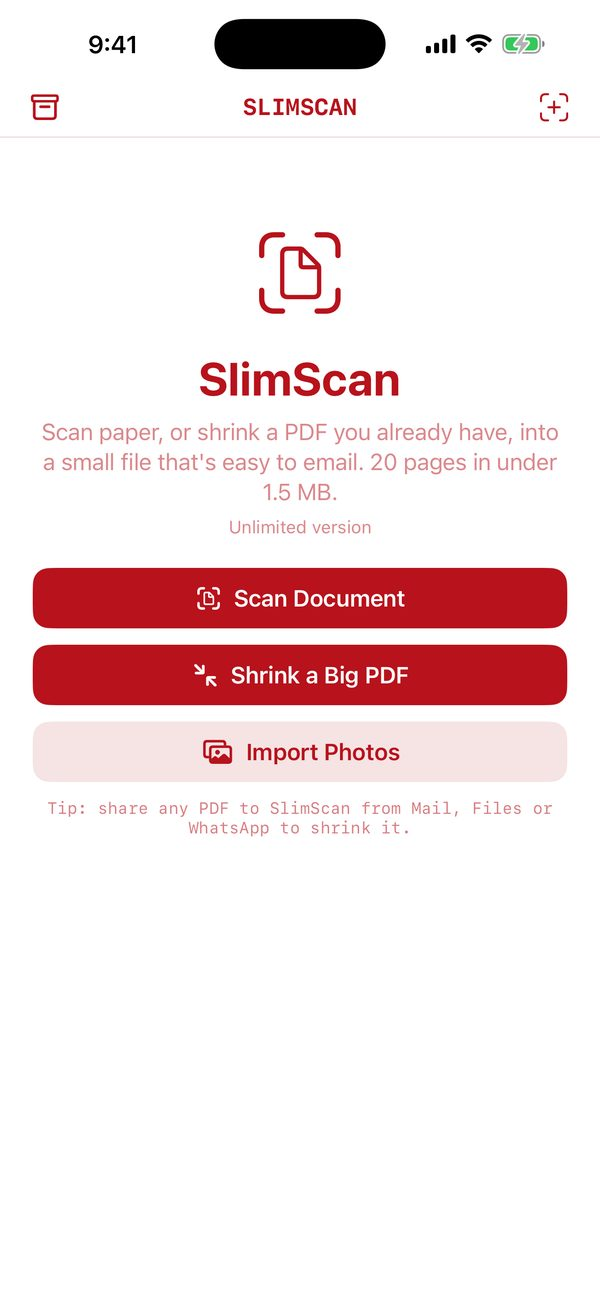
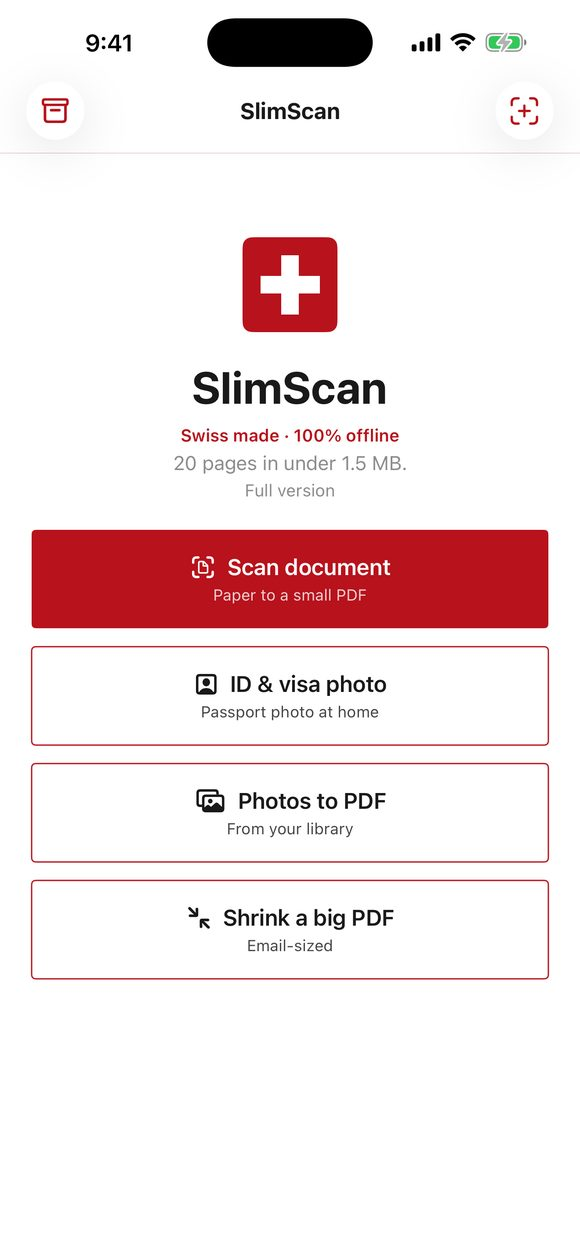
Website v2: new Swiss screenshot set, Play privacy wording, decimal comma
- Screenshots from the 12 Oct iPhone capture: 01 start (hero), 04 export, 09 ID photo chooser,
  02 pages; 580 px WebP + JPEG fallback, all enabled, alt text per language
- Android privacy text matches the Play listing word for word (incl. random install ID), on the
  4 home pages and privacy.html; offline FAQ notes Android's first scan sets up the scanner
- de/fr/it use 1,5 / 1,3 like the store listings

Claude-Session: https://claude.ai/code/session_01Nr3QbWd2Dngeoomh4BPrDx

diff --git a/fr/index.html b/fr/index.html
@@ -4,7 +4,7 @@
 <meta charset="utf-8">
 <meta name="viewport" content="width=device-width, initial-scale=1">
 <title>SlimScan : numériser et réduire vos PDF · Swiss made</title>
-<meta name="description" content="Numérisez du papier ou réduisez un PDF pour l&#x27;e-mail : 20 pages en moins de 1.5 Mo. Photos d&#x27;identité sur iPhone. Swiss made. Sans compte, sans abonnement.">
+<meta name="description" content="Numérisez du papier ou réduisez un PDF pour l&#x27;e-mail : 20 pages en moins de 1,5 Mo. Photos d&#x27;identité sur iPhone. Swiss made. Sans compte, sans abonnement.">
 <meta name="color-scheme" content="light dark">
 <link rel="canonical" href="https://chager5000.github.io/SlimScan-support/fr/">
 <link rel="alternate" hreflang="en" href="https://chager5000.github.io/SlimScan-support/">
@@ -17,7 +17,7 @@
 <meta property="og:type" content="website">
 <meta property="og:site_name" content="SlimScan">
 <meta property="og:title" content="SlimScan : numériser et réduire vos PDF · Swiss made">
-<meta property="og:description" content="Des PDF légers, prêts pour l&#x27;e-mail. 20 pages en moins de 1.5 Mo. Sans compte, sans cloud, sans abonnement.">
+<meta property="og:description" content="Des PDF légers, prêts pour l&#x27;e-mail. 20 pages en moins de 1,5 Mo. Sans compte, sans cloud, sans abonnement.">
 <meta property="og:url" content="https://chager5000.github.io/SlimScan-support/fr/">
 <meta property="og:image" content="https://chager5000.github.io/SlimScan-support/assets/og.png">
 <meta property="og:image:width" content="1200">
@@ -51,7 +51,7 @@
     <div>
       <p class="eyebrow">Swiss made · Sans compte · Sans cloud</p>
       <h1>Des PDF légers, prêts pour l'e-mail.</h1>
-      <p class="lead">Numérisez du papier ou réduisez un PDF existant&nbsp;: <strong>20 pages en moins de 1.5 Mo.</strong> Photos d'identité et de visa sur iPhone.</p>
+      <p class="lead">Numérisez du papier ou réduisez un PDF existant&nbsp;: <strong>20 pages en moins de 1,5 Mo.</strong> Photos d'identité et de visa sur iPhone.</p>
       <div class="cta">
         <!-- TODO(owner): replace idXXXXXXXXXX with SlimScan's App Store id; for App Store Connect campaign stats also add &pt=PROVIDER_TOKEN -->
         <a class="btn btn-primary" href="https://apps.apple.com/app/idXXXXXXXXXX?ct=website">Télécharger dans l'App Store</a>
@@ -61,8 +61,9 @@
     </div>
     <figure class="hero-shot">
       <picture>
-        <!-- dark version later: <source srcset="../assets/01-swiss-start-dark.jpg" media="(prefers-color-scheme: dark)"> -->
-        <img class="shot" src="../assets/01-swiss-start.jpg" width="600" height="1304" fetchpriority="high" decoding="async" alt="Écran d&#x27;accueil de SlimScan dans le style suisse rouge et blanc">
+        <!-- dark version later: <source srcset="../assets/01-swiss-start-dark.webp" type="image/webp" media="(prefers-color-scheme: dark)"> -->
+        <source srcset="../assets/01-swiss-start.webp" type="image/webp">
+        <img class="shot" src="../assets/01-swiss-start.jpg" width="580" height="1260" fetchpriority="high" decoding="async" alt="Écran d&#x27;accueil de SlimScan dans le style suisse, avec les boutons Scan document, ID &amp; visa photo, Photos to PDF et Shrink a big PDF">
       </picture>
     </figure>
   </div>
@@ -77,7 +78,7 @@
       </li>
       <li>
         <h3>Réduire un gros PDF</h3>
-        <p>Partagez un PDF avec SlimScan&nbsp;: 14 Mo avant, 1.3 Mo après.</p>
+        <p>Partagez un PDF avec SlimScan&nbsp;: 14 Mo avant, 1,3 Mo après.</p>
       </li>
       <li>
         <h3>Photos en PDF</h3>
@@ -101,13 +102,9 @@
       </li>
     </ul>
     <ul class="screens">
-      <!-- ENABLE when assets/04-swiss-export.jpg exists (remove this comment wrapper):
-      <li><figure><picture><img class="shot" src="../assets/04-swiss-export.jpg" width="600" height="1304" loading="lazy" decoding="async" alt="Écran d&#x27;export avec la taille du PDF avant l&#x27;envoi"></picture><figcaption>La taille avant l'envoi</figcaption></figure></li>
-      -->
-      <!-- ENABLE when assets/08-swiss-idphoto.jpg exists (remove this comment wrapper):
-      <li><figure><picture><img class="shot" src="../assets/08-swiss-idphoto.jpg" width="600" height="1304" loading="lazy" decoding="async" alt="Photo d&#x27;identité sur fond uni, tous les contrôles réussis"></picture><figcaption>Photos d'identité vérifiées (iPhone)</figcaption></figure></li>
-      -->
-      <li><figure><picture><!-- dark version later: <source srcset="../assets/02-swiss-pages-dark.jpg" media="(prefers-color-scheme: dark)"> --><img class="shot" src="../assets/02-swiss-pages.jpg" width="600" height="1304" loading="lazy" decoding="async" alt="Vue des pages numérisées ; une page est exclue"></picture><figcaption>Touchez une page pour l'exclure</figcaption></figure></li>
+      <li><figure><picture><!-- dark version later: <source srcset="../assets/04-swiss-export-dark.webp" type="image/webp" media="(prefers-color-scheme: dark)"> --><source srcset="../assets/04-swiss-export.webp" type="image/webp"><img class="shot" src="../assets/04-swiss-export.jpg" width="580" height="1260" loading="lazy" decoding="async" alt="Écran d&#x27;export : le PDF fait 336 Ko, sous la limite e-mail de 375 Ko et 74 % plus léger qu&#x27;un scan normal, avec les boutons Email, Share, Print et Save"></picture><figcaption>La taille avant l'envoi</figcaption></figure></li>
+      <li><figure><picture><!-- dark version later: <source srcset="../assets/09-swiss-idphoto-chooser-dark.webp" type="image/webp" media="(prefers-color-scheme: dark)"> --><source srcset="../assets/09-swiss-idphoto-chooser.webp" type="image/webp"><img class="shot" src="../assets/09-swiss-idphoto-chooser.jpg" width="580" height="1260" loading="lazy" decoding="async" alt="Choix du document pour les photos d&#x27;identité : d&#x27;abord le permis de conduire suisse, le SwissPass et le permis de séjour, puis les pays de A à Z"></picture><figcaption>Photos d'identité pour formulaires en ligne (iPhone)</figcaption></figure></li>
+      <li><figure><picture><!-- dark version later: <source srcset="../assets/02-swiss-pages-dark.webp" type="image/webp" media="(prefers-color-scheme: dark)"> --><source srcset="../assets/02-swiss-pages.webp" type="image/webp"><img class="shot" src="../assets/02-swiss-pages.jpg" width="580" height="1260" loading="lazy" decoding="async" alt="Vue de six pages numérisées ; la page 5 est exclue, 5 sur 6 sélectionnées"></picture><figcaption>Touchez une page pour l'exclure</figcaption></figure></li>
     </ul>
   </section>
 
@@ -120,7 +117,7 @@
       </div>
       <div class="box">
         <h3>Android</h3>
-        <p>Vos documents ne quittent jamais votre téléphone, sauf si vous les envoyez. Comme sur tout téléphone Android, les services Google Play envoient à Google des données techniques de diagnostic (modèle, version de l'app, performances), jamais vos documents.</p>
+        <p>Vos documents ne quittent votre téléphone que si vous les envoyez. SlimScan utilise le scanner de documents de Google, qui fait partie des services Google Play. Comme sur tout téléphone Android, les services Google Play envoient à Google des données techniques de diagnostic (modèle de l'appareil, version de l'app, performances, un identifiant d'installation aléatoire) – jamais vos documents, images ou textes.</p>
       </div>
     </div>
     <p class="after">Développé en Suisse. SlimScan n'a pas de serveur&nbsp;: vos documents ne nous parviennent jamais. Il n'y a rien que nous puissions stocker, perdre ou remettre. <a href="../privacy.html" hreflang="en">Politique de confidentialité (en anglais)</a></p>

diff --git a/it/index.html b/it/index.html
@@ -4,7 +4,7 @@
 <meta charset="utf-8">
 <meta name="viewport" content="width=device-width, initial-scale=1">
 <title>SlimScan: scansiona e riduci PDF · Swiss made</title>
-<meta name="description" content="Scansiona la carta o riduci un PDF per l&#x27;e-mail: 20 pagine in meno di 1.5 MB. Foto tessera su iPhone. Swiss made. Nessun account, nessun abbonamento.">
+<meta name="description" content="Scansiona la carta o riduci un PDF per l&#x27;e-mail: 20 pagine in meno di 1,5 MB. Foto tessera su iPhone. Swiss made. Nessun account, nessun abbonamento.">
 <meta name="color-scheme" content="light dark">
 <link rel="canonical" href="https://chager5000.github.io/SlimScan-support/it/">
 <link rel="alternate" hreflang="en" href="https://chager5000.github.io/SlimScan-support/">
@@ -17,7 +17,7 @@
 <meta property="og:type" content="website">
 <meta property="og:site_name" content="SlimScan">
 <meta property="og:title" content="SlimScan: scansiona e riduci PDF · Swiss made">
-<meta property="og:description" content="PDF leggeri, pronti per l&#x27;e-mail. 20 pagine in meno di 1.5 MB. Nessun account, nessun cloud, nessun abbonamento.">
+<meta property="og:description" content="PDF leggeri, pronti per l&#x27;e-mail. 20 pagine in meno di 1,5 MB. Nessun account, nessun cloud, nessun abbonamento.">
 <meta property="og:url" content="https://chager5000.github.io/SlimScan-support/it/">
 <meta property="og:image" content="https://chager5000.github.io/SlimScan-support/assets/og.png">
 <meta property="og:image:width" content="1200">
@@ -51,7 +51,7 @@
     <div>
       <p class="eyebrow">Swiss made · Nessun account · Nessun cloud</p>
       <h1>PDF leggeri, pronti per l'e-mail.</h1>
-      <p class="lead">Scansiona la carta o riduci un PDF che hai già: <strong>20 pagine in meno di 1.5 MB.</strong> Foto tessera e per visti su iPhone.</p>
+      <p class="lead">Scansiona la carta o riduci un PDF che hai già: <strong>20 pagine in meno di 1,5 MB.</strong> Foto tessera e per visti su iPhone.</p>
       <div class="cta">
         <!-- TODO(owner): replace idXXXXXXXXXX with SlimScan's App Store id; for App Store Connect campaign stats also add &pt=PROVIDER_TOKEN -->
         <a class="btn btn-primary" href="https://apps.apple.com/app/idXXXXXXXXXX?ct=website">Scarica su App Store</a>
@@ -61,8 +61,9 @@
     </div>
     <figure class="hero-shot">
       <picture>
-        <!-- dark version later: <source srcset="../assets/01-swiss-start-dark.jpg" media="(prefers-color-scheme: dark)"> -->
-        <img class="shot" src="../assets/01-swiss-start.jpg" width="600" height="1304" fetchpriority="high" decoding="async" alt="Schermata iniziale di SlimScan nello stile svizzero rosso e bianco">
+        <!-- dark version later: <source srcset="../assets/01-swiss-start-dark.webp" type="image/webp" media="(prefers-color-scheme: dark)"> -->
+        <source srcset="../assets/01-swiss-start.webp" type="image/webp">
+        <img class="shot" src="../assets/01-swiss-start.jpg" width="580" height="1260" fetchpriority="high" decoding="async" alt="Schermata iniziale di SlimScan nello stile svizzero, con i pulsanti Scan document, ID &amp; visa photo, Photos to PDF e Shrink a big PDF">
       </picture>
     </figure>
   </div>
@@ -77,7 +78,7 @@
       </li>
       <li>
         <h3>Riduci un PDF grande</h3>
-        <p>Condividi un PDF con SlimScan: prima 14 MB, ora 1.3 MB.</p>
+        <p>Condividi un PDF con SlimScan: prima 14 MB, ora 1,3 MB.</p>
       </li>
       <li>
         <h3>Foto in PDF</h3>
@@ -101,13 +102,9 @@
       </li>
     </ul>
     <ul class="screens">
-      <!-- ENABLE when assets/04-swiss-export.jpg exists (remove this comment wrapper):
-      <li><figure><picture><img class="shot" src="../assets/04-swiss-export.jpg" width="600" height="1304" loading="lazy" decoding="async" alt="Schermata di esportazione con la dimensione del PDF prima dell&#x27;invio"></picture><figcaption>La dimensione prima dell'invio</figcaption></figure></li>
-      -->
-      <!-- ENABLE when assets/08-swiss-idphoto.jpg exists (remove this comment wrapper):
-      <li><figure><picture><img class="shot" src="../assets/08-swiss-idphoto.jpg" width="600" height="1304" loading="lazy" decoding="async" alt="Fototessera con sfondo uniforme, tutti i controlli superati"></picture><figcaption>Foto tessera verificate (iPhone)</figcaption></figure></li>
-      -->
-      <li><figure><picture><!-- dark version later: <source srcset="../assets/02-swiss-pages-dark.jpg" media="(prefers-color-scheme: dark)"> --><img class="shot" src="../assets/02-swiss-pages.jpg" width="600" height="1304" loading="lazy" decoding="async" alt="Griglia delle pagine scansionate; una pagina è esclusa"></picture><figcaption>Tocca una pagina per escluderla</figcaption></figure></li>
+      <li><figure><picture><!-- dark version later: <source srcset="../assets/04-swiss-export-dark.webp" type="image/webp" media="(prefers-color-scheme: dark)"> --><source srcset="../assets/04-swiss-export.webp" type="image/webp"><img class="shot" src="../assets/04-swiss-export.jpg" width="580" height="1260" loading="lazy" decoding="async" alt="Schermata di esportazione: il PDF pesa 336 KB, sotto il limite e-mail di 375 KB e il 74% più piccolo di una scansione normale, con i pulsanti Email, Share, Print e Save"></picture><figcaption>La dimensione prima dell'invio</figcaption></figure></li>
+      <li><figure><picture><!-- dark version later: <source srcset="../assets/09-swiss-idphoto-chooser-dark.webp" type="image/webp" media="(prefers-color-scheme: dark)"> --><source srcset="../assets/09-swiss-idphoto-chooser.webp" type="image/webp"><img class="shot" src="../assets/09-swiss-idphoto-chooser.jpg" width="580" height="1260" loading="lazy" decoding="async" alt="Scelta del documento per le foto tessera: prima licenza di condurre svizzera, SwissPass e permesso di dimora, poi i paesi dalla A alla Z"></picture><figcaption>Foto tessera per moduli online (iPhone)</figcaption></figure></li>
+      <li><figure><picture><!-- dark version later: <source srcset="../assets/02-swiss-pages-dark.webp" type="image/webp" media="(prefers-color-scheme: dark)"> --><source srcset="../assets/02-swiss-pages.webp" type="image/webp"><img class="shot" src="../assets/02-swiss-pages.jpg" width="580" height="1260" loading="lazy" decoding="async" alt="Griglia con sei pagine scansionate; la pagina 5 è esclusa, 5 di 6 selezionate"></picture><figcaption>Tocca una pagina per escluderla</figcaption></figure></li>
     </ul>
   </section>
 
@@ -120,7 +117,7 @@
       </div>
       <div class="box">
         <h3>Android</h3>
-        <p>I tuoi documenti non lasciano mai il telefono, a meno che tu non li invii. Come su ogni telefono Android, i servizi Google Play inviano a Google dati tecnici di diagnostica (modello, versione dell'app, prestazioni), mai i tuoi documenti.</p>
+        <p>I tuoi documenti lasciano il telefono solo se li invii tu. SlimScan usa lo scanner di documenti di Google, parte dei servizi Google Play. Come su ogni telefono Android, i servizi Google Play inviano a Google dati tecnici di diagnostica (modello del dispositivo, versione dell'app, prestazioni, un ID di installazione casuale) – mai i tuoi documenti, immagini o testi.</p>
       </div>
     </div>
     <p class="after">Sviluppata in Svizzera. SlimScan non ha server: i tuoi documenti non ci raggiungono mai. Non c'è nulla che potremmo conservare, perdere o consegnare. <a href="../privacy.html" hreflang="en">Informativa sulla privacy (in inglese)</a></p>

diff --git a/de/index.html b/de/index.html
@@ -4,7 +4,7 @@
 <meta charset="utf-8">
 <meta name="viewport" content="width=device-width, initial-scale=1">
 <title>SlimScan: PDF scannen und verkleinern · Swiss made</title>
-<meta name="description" content="Papier scannen oder jedes PDF klein genug zum Mailen machen: 20 Seiten in unter 1.5 MB. Pass- und Visumfotos auf dem iPhone. Swiss made. Kein Konto, kein Abo.">
+<meta name="description" content="Papier scannen oder jedes PDF klein genug zum Mailen machen: 20 Seiten in unter 1,5 MB. Pass- und Visumfotos auf dem iPhone. Swiss made. Kein Konto, kein Abo.">
 <meta name="color-scheme" content="light dark">
 <link rel="canonical" href="https://chager5000.github.io/SlimScan-support/de/">
 <link rel="alternate" hreflang="en" href="https://chager5000.github.io/SlimScan-support/">
@@ -17,7 +17,7 @@
 <meta property="og:type" content="website">
 <meta property="og:site_name" content="SlimScan">
 <meta property="og:title" content="SlimScan: PDF scannen und verkleinern · Swiss made">
-<meta property="og:description" content="Kleine PDFs, bereit zum Mailen. 20 Seiten in unter 1.5 MB. Kein Konto, keine Cloud, kein Abo.">
+<meta property="og:description" content="Kleine PDFs, bereit zum Mailen. 20 Seiten in unter 1,5 MB. Kein Konto, keine Cloud, kein Abo.">
 <meta property="og:url" content="https://chager5000.github.io/SlimScan-support/de/">
 <meta property="og:image" content="https://chager5000.github.io/SlimScan-support/assets/og.png">
 <meta property="og:image:width" content="1200">
@@ -51,7 +51,7 @@
     <div>
       <p class="eyebrow">Swiss made · Kein Konto · Keine Cloud</p>
       <h1>Kleine PDFs, bereit zum Mailen.</h1>
-      <p class="lead">Papier scannen oder ein vorhandenes PDF verkleinern: <strong>20 Seiten in unter 1.5 MB.</strong> Pass- und Visumfotos auf dem iPhone.</p>
+      <p class="lead">Papier scannen oder ein vorhandenes PDF verkleinern: <strong>20 Seiten in unter 1,5 MB.</strong> Pass- und Visumfotos auf dem iPhone.</p>
       <div class="cta">
         <!-- TODO(owner): replace idXXXXXXXXXX with SlimScan's App Store id; for App Store Connect campaign stats also add &pt=PROVIDER_TOKEN -->
         <a class="btn btn-primary" href="https://apps.apple.com/app/idXXXXXXXXXX?ct=website">Laden im App Store</a>
@@ -61,8 +61,9 @@
     </div>
     <figure class="hero-shot">
       <picture>
-        <!-- dark version later: <source srcset="../assets/01-swiss-start-dark.jpg" media="(prefers-color-scheme: dark)"> -->
-        <img class="shot" src="../assets/01-swiss-start.jpg" width="600" height="1304" fetchpriority="high" decoding="async" alt="Startbildschirm von SlimScan im rot-weissen Schweizer Look">
+        <!-- dark version later: <source srcset="../assets/01-swiss-start-dark.webp" type="image/webp" media="(prefers-color-scheme: dark)"> -->
+        <source srcset="../assets/01-swiss-start.webp" type="image/webp">
+        <img class="shot" src="../assets/01-swiss-start.jpg" width="580" height="1260" fetchpriority="high" decoding="async" alt="Startbildschirm von SlimScan im Schweizer Look, mit den Tasten Scan document, ID &amp; visa photo, Photos to PDF und Shrink a big PDF">
       </picture>
     </figure>
   </div>
@@ -77,7 +78,7 @@
       </li>
       <li>
         <h3>Grosses PDF verkleinern</h3>
-        <p>Teile ein PDF mit SlimScan: vorher 14 MB, jetzt 1.3 MB.</p>
+        <p>Teile ein PDF mit SlimScan: vorher 14 MB, jetzt 1,3 MB.</p>
       </li>
       <li>
         <h3>Fotos zu PDF</h3>
@@ -101,13 +102,9 @@
       </li>
     </ul>
     <ul class="screens">
-      <!-- ENABLE when assets/04-swiss-export.jpg exists (remove this comment wrapper):
-      <li><figure><picture><img class="shot" src="../assets/04-swiss-export.jpg" width="600" height="1304" loading="lazy" decoding="async" alt="Export-Bildschirm mit der Dateigrösse des PDFs vor dem Senden"></picture><figcaption>Grösse vor dem Senden sehen</figcaption></figure></li>
-      -->
-      <!-- ENABLE when assets/08-swiss-idphoto.jpg exists (remove this comment wrapper):
-      <li><figure><picture><img class="shot" src="../assets/08-swiss-idphoto.jpg" width="600" height="1304" loading="lazy" decoding="async" alt="Passfoto mit neutralem Hintergrund, alle Prüfungen bestanden"></picture><figcaption>Pass- und Visumfotos, geprüft (iPhone)</figcaption></figure></li>
-      -->
-      <li><figure><picture><!-- dark version later: <source srcset="../assets/02-swiss-pages-dark.jpg" media="(prefers-color-scheme: dark)"> --><img class="shot" src="../assets/02-swiss-pages.jpg" width="600" height="1304" loading="lazy" decoding="async" alt="Seitenübersicht mit gescannten Seiten; eine Seite ist weggelassen"></picture><figcaption>Seite antippen, um sie wegzulassen</figcaption></figure></li>
+      <li><figure><picture><!-- dark version later: <source srcset="../assets/04-swiss-export-dark.webp" type="image/webp" media="(prefers-color-scheme: dark)"> --><source srcset="../assets/04-swiss-export.webp" type="image/webp"><img class="shot" src="../assets/04-swiss-export.jpg" width="580" height="1260" loading="lazy" decoding="async" alt="Export-Bildschirm: Das PDF hat 336 KB, unter dem E-Mail-Limit von 375 KB und 74 % kleiner als ein normaler Scan, mit den Tasten Email, Share, Print und Save"></picture><figcaption>Grösse vor dem Senden sehen</figcaption></figure></li>
+      <li><figure><picture><!-- dark version later: <source srcset="../assets/09-swiss-idphoto-chooser-dark.webp" type="image/webp" media="(prefers-color-scheme: dark)"> --><source srcset="../assets/09-swiss-idphoto-chooser.webp" type="image/webp"><img class="shot" src="../assets/09-swiss-idphoto-chooser.jpg" width="580" height="1260" loading="lazy" decoding="async" alt="Dokumentauswahl für Passfotos: zuerst Schweizer Führerausweis, SwissPass und Aufenthaltsbewilligung, dann Länder von A bis Z"></picture><figcaption>Pass- und Visumfotos für Online-Formulare (iPhone)</figcaption></figure></li>
+      <li><figure><picture><!-- dark version later: <source srcset="../assets/02-swiss-pages-dark.webp" type="image/webp" media="(prefers-color-scheme: dark)"> --><source srcset="../assets/02-swiss-pages.webp" type="image/webp"><img class="shot" src="../assets/02-swiss-pages.jpg" width="580" height="1260" loading="lazy" decoding="async" alt="Seitenübersicht mit sechs gescannten Seiten; Seite 5 ist weggelassen, 5 von 6 gewählt"></picture><figcaption>Seite antippen, um sie wegzulassen</figcaption></figure></li>
     </ul>
   </section>
 
@@ -120,7 +117,7 @@
       </div>
       <div class="box">
         <h3>Android</h3>
-        <p>Deine Dokumente verlassen dein Handy nie, ausser du sendest sie. Wie auf jedem Android-Handy senden die Google Play-Dienste technische Diagnosedaten an Google (Gerätemodell, App-Version, Leistung), nie deine Dokumente.</p>
+        <p>Deine Dokumente verlassen dein Handy nur, wenn du sie sendest. SlimScan nutzt den Dokumentenscanner von Google, einen Teil der Google Play-Dienste. Wie auf jedem Android-Handy senden die Google Play-Dienste technische Diagnosedaten an Google (Gerätemodell, App-Version, Leistung, eine zufällige Installations-ID) – nie deine Dokumente, Bilder oder Texte.</p>
       </div>
     </div>
     <p class="after">In der Schweiz entwickelt. SlimScan hat keinen Server. Deine Dokumente erreichen uns nie: Es gibt nichts, was wir speichern, verlieren oder herausgeben könnten. <a href="../privacy.html" hreflang="en">Datenschutzerklärung (Englisch)</a></p>

diff --git a/index.html b/index.html
@@ -61,8 +61,9 @@
     </div>
     <figure class="hero-shot">
       <picture>
-        <!-- dark version later: <source srcset="assets/01-swiss-start-dark.jpg" media="(prefers-color-scheme: dark)"> -->
-        <img class="shot" src="assets/01-swiss-start.jpg" width="600" height="1304" fetchpriority="high" decoding="async" alt="SlimScan home screen in the red-and-white Swiss look">
+        <!-- dark version later: <source srcset="assets/01-swiss-start-dark.webp" type="image/webp" media="(prefers-color-scheme: dark)"> -->
+        <source srcset="assets/01-swiss-start.webp" type="image/webp">
+        <img class="shot" src="assets/01-swiss-start.jpg" width="580" height="1260" fetchpriority="high" decoding="async" alt="SlimScan home screen in the Swiss look, with the buttons Scan document, ID &amp; visa photo, Photos to PDF and Shrink a big PDF">
       </picture>
     </figure>
   </div>
@@ -101,13 +102,9 @@
       </li>
     </ul>
     <ul class="screens">
-      <!-- ENABLE when assets/04-swiss-export.jpg exists (remove this comment wrapper):
-      <li><figure><picture><img class="shot" src="assets/04-swiss-export.jpg" width="600" height="1304" loading="lazy" decoding="async" alt="Export screen showing the PDF&#x27;s file size before sending"></picture><figcaption>See the size before you send</figcaption></figure></li>
-      -->
-      <!-- ENABLE when assets/08-swiss-idphoto.jpg exists (remove this comment wrapper):
-      <li><figure><picture><img class="shot" src="assets/08-swiss-idphoto.jpg" width="600" height="1304" loading="lazy" decoding="async" alt="ID photo with a plain background and the photo checks passed"></picture><figcaption>ID and visa photos, checked (iPhone)</figcaption></figure></li>
-      -->
-      <li><figure><picture><!-- dark version later: <source srcset="assets/02-swiss-pages-dark.jpg" media="(prefers-color-scheme: dark)"> --><img class="shot" src="assets/02-swiss-pages.jpg" width="600" height="1304" loading="lazy" decoding="async" alt="Page grid with scanned pages; one page is left out"></picture><figcaption>Tap a page to leave it out</figcaption></figure></li>
+      <li><figure><picture><!-- dark version later: <source srcset="assets/04-swiss-export-dark.webp" type="image/webp" media="(prefers-color-scheme: dark)"> --><source srcset="assets/04-swiss-export.webp" type="image/webp"><img class="shot" src="assets/04-swiss-export.jpg" width="580" height="1260" loading="lazy" decoding="async" alt="Export screen: the PDF is 336 KB, under the 375 KB Email limit and 74% smaller than a normal scan, with Email, Share, Print and Save buttons"></picture><figcaption>See the size before you send</figcaption></figure></li>
+      <li><figure><picture><!-- dark version later: <source srcset="assets/09-swiss-idphoto-chooser-dark.webp" type="image/webp" media="(prefers-color-scheme: dark)"> --><source srcset="assets/09-swiss-idphoto-chooser.webp" type="image/webp"><img class="shot" src="assets/09-swiss-idphoto-chooser.jpg" width="580" height="1260" loading="lazy" decoding="async" alt="Document chooser for ID photos: Swiss driving licence, SwissPass and residence permit first, then countries from A to Z"></picture><figcaption>ID and visa photos for online forms (iPhone)</figcaption></figure></li>
+      <li><figure><picture><!-- dark version later: <source srcset="assets/02-swiss-pages-dark.webp" type="image/webp" media="(prefers-color-scheme: dark)"> --><source srcset="assets/02-swiss-pages.webp" type="image/webp"><img class="shot" src="assets/02-swiss-pages.jpg" width="580" height="1260" loading="lazy" decoding="async" alt="Page grid with six scanned pages; page 5 is left out, 5 of 6 selected"></picture><figcaption>Tap a page to leave it out</figcaption></figure></li>
     </ul>
   </section>
 
@@ -120,7 +117,7 @@
       </div>
       <div class="box">
         <h3>Android</h3>
-        <p>Your documents never leave the phone unless you send them. As on every Android phone, Google Play services sends Google technical diagnostics (device model, app version, performance), never your documents.</p>
+        <p>Your documents never leave your phone unless you send them. SlimScan uses Google's document scanner, part of Google Play services. As on every Android phone, Google Play services sends Google technical diagnostics (device model, app version, performance, a random install ID) – never your documents, images or text.</p>
       </div>
     </div>
     <p class="after">Made in Switzerland. SlimScan has no server, so your documents never reach us: there is nothing for us to store, lose or hand over. <a href="privacy.html">Read the privacy policy</a></p>
@@ -164,7 +161,7 @@
       </details>
       <details>
         <summary>Does SlimScan work offline?</summary>
-        <p>Yes. Scanning, shrinking and building PDFs happen on your phone, so it works in flight mode. Only buying or restoring the unlock needs a connection.</p>
+        <p>Yes. Scanning, shrinking and building PDFs happen on your phone, so it works in flight mode. Only buying or restoring the unlock needs a connection, and on Android the very first scan, which sets up Google's scanner.</p>
       </details>
       <details>
         <summary>Will my ID photo be accepted?</summary>

diff --git a/privacy.html b/privacy.html
@@ -50,7 +50,7 @@
       <li class="pill">No account</li>
       <li class="pill">No ads</li>
     </ul>
-    <p>The short version: SlimScan has no server, so your documents never reach us. On iPhone and iPad, SlimScan collects no data at all. On Android, SlimScan itself collects nothing either, but Google's document scanner, part of Google Play services, sends Google technical diagnostics. It never sends your documents, images or text.</p>
+    <p>The short version: SlimScan has no server, so your documents never reach us. On iPhone and iPad, SlimScan collects no data at all. On Android, SlimScan itself collects nothing either. SlimScan uses Google's document scanner, part of Google Play services. As on every Android phone, Google Play services sends Google technical diagnostics (device model, app version, performance, a random install ID) – never your documents, images or text.</p>
   </div>
   <nav aria-label="On this page">
     <ul class="toc"><li><a href="#iphone">iPhone and iPad</a></li><li><a href="#android">Android</a></li><li><a href="#everyone">For everyone</a></li></ul>
@@ -80,7 +80,8 @@
   <p>On Android too, scanning, cropping and building PDFs happen on your phone. SlimScan has no server, and your documents leave the phone only when you choose to send them, for example by tapping Email, Share, Print or Save.</p>
 
   <h3>Google's document scanner and diagnostics</h3>
-  <p>As on every Android phone, Google Play services sends Google technical diagnostics. SlimScan scans with Google's ML Kit document scanner, which is part of Google Play services on your phone. The images you scan are processed on the phone and are not sent to Google or to us. To measure how the scanner performs, Google Play services sends Google:</p>
+  <p>SlimScan uses Google's document scanner, part of Google Play services. As on every Android phone, Google Play services sends Google technical diagnostics (device model, app version, performance, a random install ID) – never your documents, images or text.</p>
+  <p>The scanner is Google's ML Kit document scanner. The images you scan are processed on the phone and are not sent to Google or to us. In detail, to measure how the scanner performs, Google Play services sends Google:</p>
   <ul>
     <li>device information (manufacturer, model, Android version and build)</li>
     <li>app information (SlimScan's package name and version)</li>

diff --git a/README.md b/README.md
@@ -13,20 +13,22 @@ Plain static HTML and one stylesheet: no scripts, no cookies, no web fonts, no t
 | `sitemap.xml` | The 5 public URLs. |
 
 ## Images (all in `assets/`)
-Screenshots: iPhone, Swiss look, unlocked, demo documents only. 600 px wide JPEG (quality ~82), ratio 1320 × 2868.
-If a new image has another ratio, update its `width`/`height` attributes. Never use the paywall shot (it shows a price).
+Screenshots: iPhone 6.9" captures (12 Oct 2026), Swiss look, English UI, demo documents only. Each is 580 px wide, as
+WebP (served first) plus a JPEG fallback in `<picture>`. If a replacement has another ratio than 1320 × 2868, update its
+`width`/`height` attributes (580 × 1260). Never use a paywall shot (it shows a price).
 
-| File | Where | Caption (EN) | Status |
+| File (.webp + .jpg) | Where | Caption (EN) | Source |
 |---|---|---|---|
-| `assets/01-swiss-start.jpg` | Hero, all languages | none | placeholder (older simulator shot); replace with the new capture |
-| `assets/04-swiss-export.jpg` | Screens row, 1st | See the size before you send | **missing**: add the file, then remove the `<!-- ENABLE … -->` wrapper around its `<li>` on all 4 home pages |
-| `assets/08-swiss-idphoto.jpg` | Screens row, 2nd | ID and visa photos, checked (iPhone) | **missing**: same as above |
-| `assets/02-swiss-pages.jpg` | Screens row, 3rd | Tap a page to leave it out | placeholder (older simulator shot); replace with the new capture |
-| `assets/og.png` | Social preview (1200 × 630) | text only: cross, SlimScan, headline | done |
-| `assets/apple-touch-icon.png` | Home-screen icon (180 × 180) | Swiss cross | done |
-| `assets/icon.svg` | Favicon | Swiss cross | done |
+| `assets/01-swiss-start` | Hero, all languages | none | `screenshots/01-swiss-start.png` |
+| `assets/04-swiss-export` | Screens row, 1st | See the size before you send | `screenshots/04-swiss-export.png` |
+| `assets/09-swiss-idphoto-chooser` | Screens row, 2nd | ID and visa photos for online forms (iPhone) | `screenshots/09-swiss-idphoto-chooser.png` |
+| `assets/02-swiss-pages` | Screens row, 3rd | Tap a page to leave it out | `screenshots/02-swiss-pages.png` |
+| `assets/og.png` | Social preview (1200 × 630) | text only: cross, SlimScan, headline | built from HTML |
+| `assets/apple-touch-icon.png` | Home-screen icon (180 × 180) | Swiss cross | built from HTML |
+| `assets/icon.svg` | Favicon | Swiss cross | hand-drawn |
 
-Dark-mode screenshots (optional): save as `NAME-dark.jpg` next to the light one and un-comment the
+Alt texts describe what each screenshot shows; update them on all 4 home pages if an image changes.
+Dark-mode screenshots (optional): save as `NAME-dark.webp` next to the light one and un-comment the
 `<source … media="(prefers-color-scheme: dark)">` line inside that image's `<picture>`.
 
 ## To do before publishing (merging into `main`)
